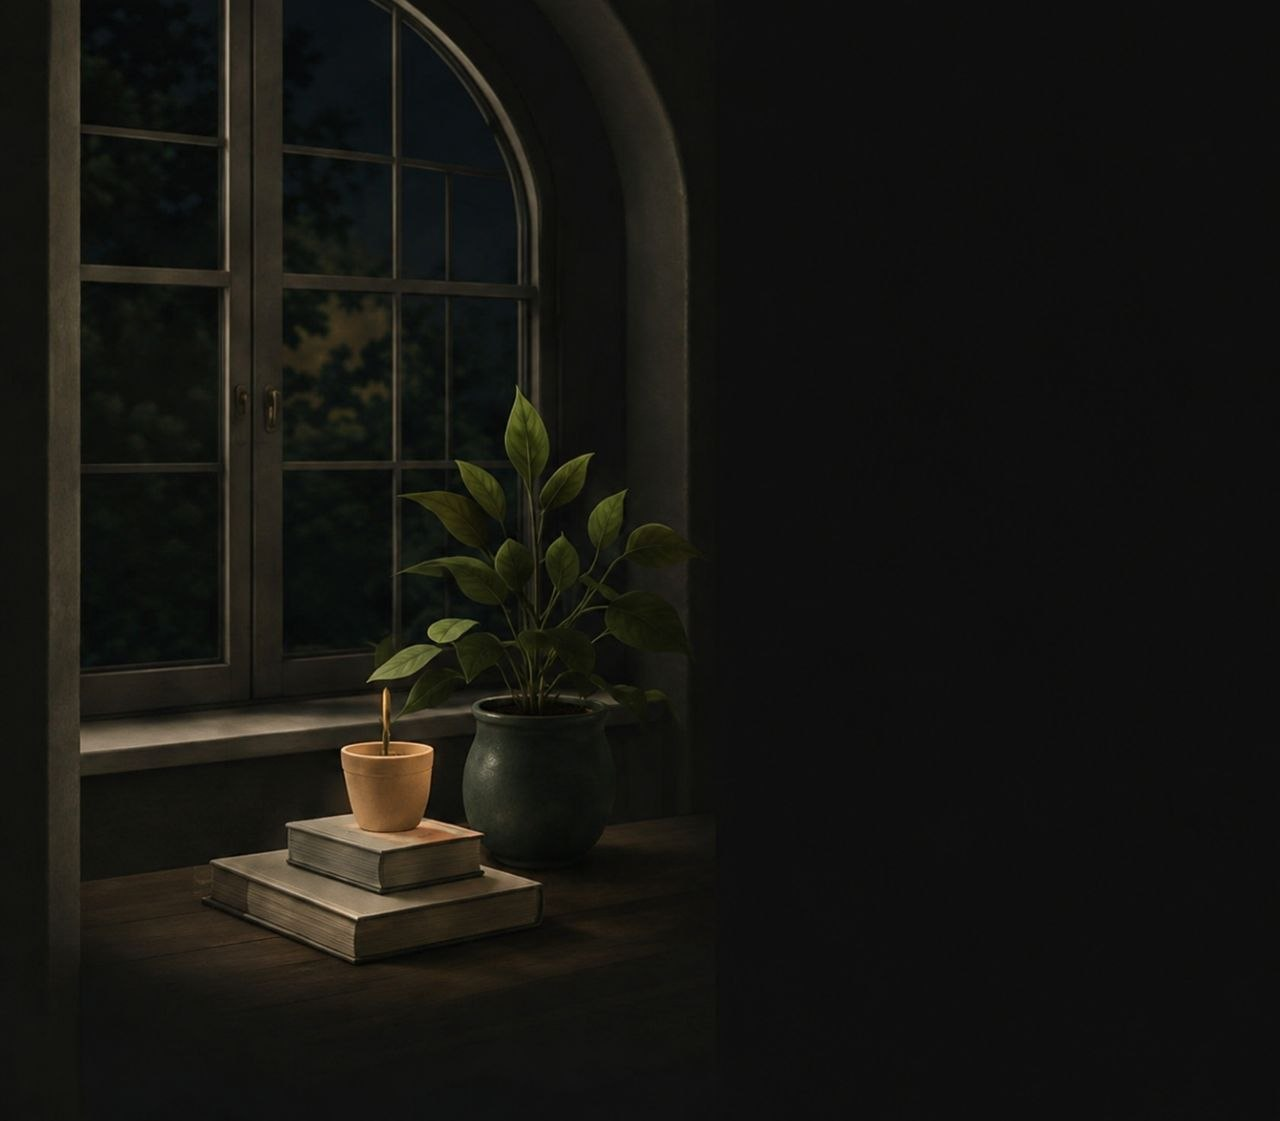
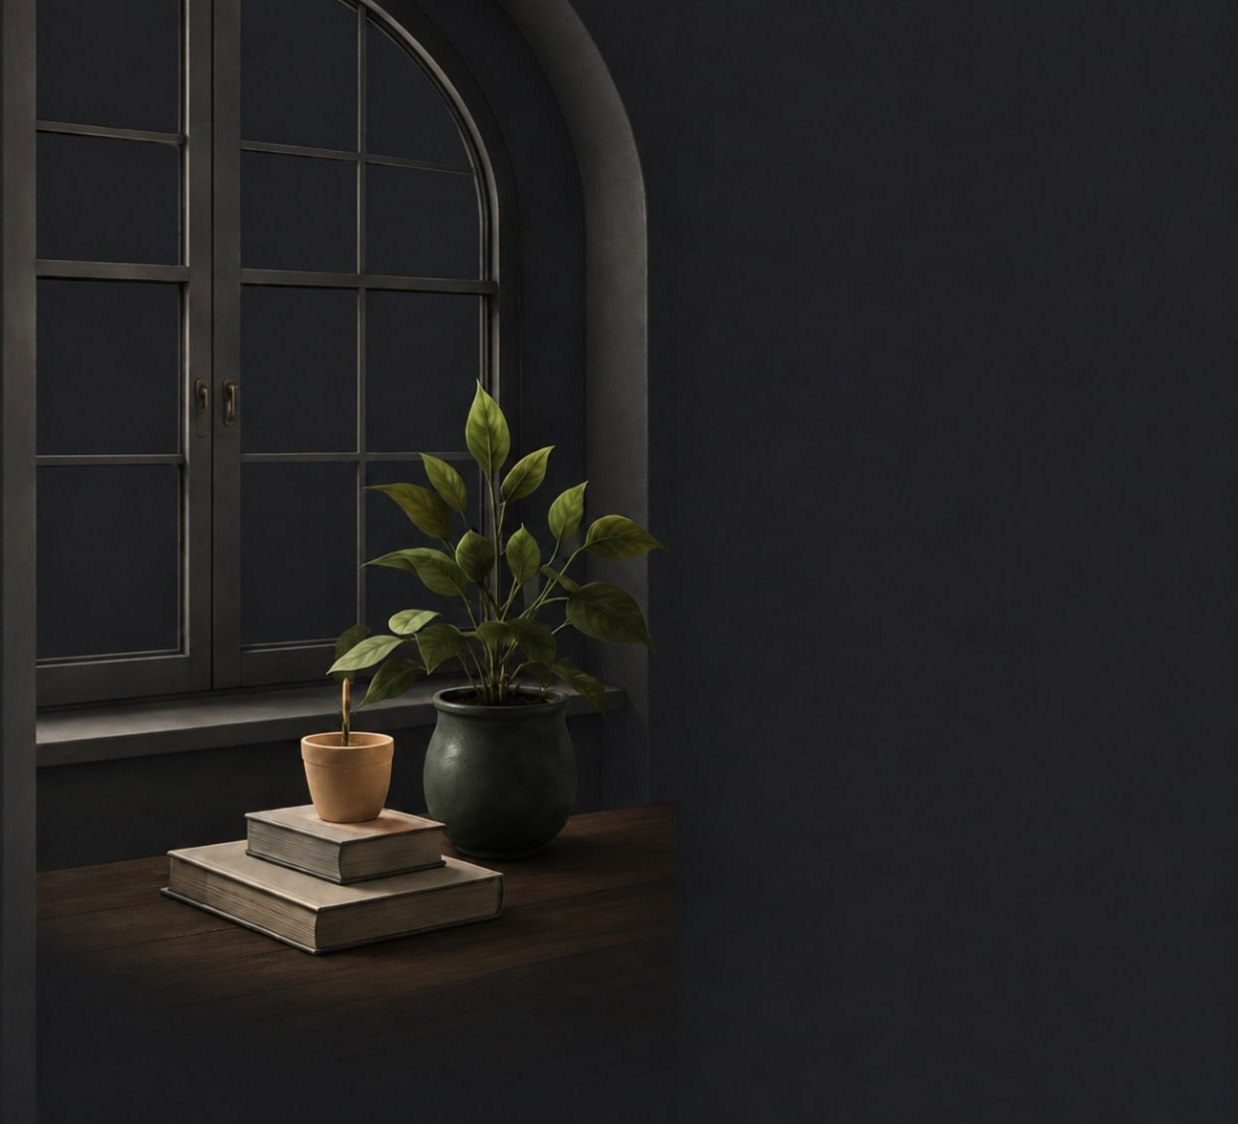
final-about page

diff --git a/about.html b/about.html
@@ -65,7 +65,7 @@
   <!--Start Landing Section-->
   <section class="landing d-flex justify-content-md-between align-items-center flex-lg-row container-fluid my-5">
 
-    <div class="info ms-lg-2 p-4">
+    <div class="info ms-lg-4 p-4">
       <div class="ms-lg-5 text-center text-md-start">
 
         <p class="fst-italic fs-5 text-green fw-semibold">About Malath <span class="heart">♡</span></p>
@@ -82,7 +82,7 @@
 
 
     <div class="landing-image w-50 my-md-auto bg-dark">
-      <img src="./assets/landing-light.jpg" alt="Landing" class="w-100" id="landing-img">
+      <img src="./assets/landing-light.png" alt="Landing" class="w-100" id="landing-img"/>
     </div>
   </section>
   <!--End Landing Section-->
@@ -154,12 +154,12 @@
   <!--End Story Section-->
 
   <!--Start Mission Section -->
-  <section class="mission container-fluid my-5">
+  <section class="container-fluid my-5">
     <div class="row column-gap-5">
 
-      <div class="col-lg-6 border border-1 rounded-5 ms-lg-3">
+      <div id="mission" class="col-lg-6 border border-1 rounded-5 ms-lg-3">
 
-        <div id="description" class=" pt-5">
+        <div id="description" class="pt-4">
           <h3 class="mb-3">Our Mission</h3>
           <p class="lh-lg text-muted paragraph">To make knowledge accessible to everyone <br> by encouraging book sharing and borrowing <br> in a simple,secure,and meaningful way.</p>
           <p class="lh-lg text-muted paragraph">We aim to reduce book waste,spread <br>learning opportunities, and support a more<br> conscious and connected society.</p>
@@ -168,7 +168,7 @@
 
 
 
-      <div class="we-do col-lg-5 pt-5 border border-1 rounded-5 ps-md-4">
+      <div class="we-do col-lg-5 pt-4 border border-1 rounded-5 ps-md-4">
         <h3>What We Do</h3>
         <div class="info my-4">
 
@@ -316,14 +316,14 @@
 
   <!--Start Last Section-->
   <section class="mb-5 container-fluid my-5">
-    <div class="row p-2 justify-content-around">
+    <div class="row p-2 justify-content-around align-items-center">
 
       <div class="col-md-4 col-lg-4 text-center mb-3">
-        <q class="fs-1 fw-semibold fst-italic">A book is a gift <br class="d-none d-md-block">you can open again <br class="d-none d-lg-block"> and again.</q>
+        <q class="fs-1 fw-semibold fst-italic">A book is a gift <br class="d-none d-lg-block">you can open again <br class="d-none d-lg-block"> and again.</q>
       </div>
 
       <div class="col-md-5 col-lg-5">
-        <img src="./assets/quote.jpg" alt="" class="w-100" id="last-section">
+        <img src="./assets/chair-light.jpg" alt="" class="w-100" id="last-section">
       </div>
 
       <div class="col-md-3 col-lg-3 text-center text-md-start mt-3">
@@ -337,7 +337,7 @@
   <!--End Last Section-->
 
   <!--Start Footer-->
-  <footer id="footer" class="p-3 bg-section">
+  <footer id="footer" class="px-1 py-3 bg-section">
     <div class="container">
       <div class="row  justify-content-md-between justify-content-lg-center align-items-start p-2">
 

diff --git a/css/style.css b/css/style.css
@@ -56,22 +56,15 @@ html {
 .bg-section {
   background-color: #e6ede6;
 }
+.bg-green{
+  background-color: var(--primary-green-color);
+}
 .copy-right {
   background-color: var(--primary-green-color) !important;
 }
 /*End Footer*/
 
 /*Start About Page*/
-.landing-image{
-  border-radius: 8px;
-  -webkit-border-radius: 8px;
-  -moz-border-radius: 8px;
-  -ms-border-radius: 8px;
-  -o-border-radius: 8px;
-}
-#landing-img{
-  mix-blend-mode: screen; 
-}
 .icon {
   width: 40px;
   height: 40px;
@@ -101,78 +94,50 @@ html {
   -o-border-radius: 50%;
 }
 #description {
+  padding-left: 300px;
+}
+#mission{
+  overflow: hidden;
   background-image: url(../assets/mission-light.jpg);
   background-size: cover;
-  padding-bottom: 100px;
-  border-radius: 8px;
-  -webkit-border-radius: 8px;
-  -moz-border-radius: 8px;
-  -ms-border-radius: 8px;
-  -o-border-radius: 8px;
-  padding-left: 300px;
   background-position: center;
-}
-/*#landing-img{
-  mix-blend-mode: screen;
-}*/
-/*.description{
-  background-image: url(../assets/mission-dark.jpg);
-  background-size: cover;
-  padding-bottom: 100px;
   border-radius: 8px;
   -webkit-border-radius: 8px;
   -moz-border-radius: 8px;
   -ms-border-radius: 8px;
   -o-border-radius: 8px;
-  padding-left: 300px;
-}*/
-.description-box,
-.description-content {
-  min-height: 100%;
 }
 @media (max-width: 767px) {
   .landing {
     flex-direction: column !important;
   }
-  .landing .image,
-  .landing .image img {
+  .landing-image,
+  .landing-image img {
     width: 100% !important;
   }
-  .mission .description {
-    padding-left: 300px;
-    padding-bottom: 10px;
+   #mission{
+    background-image: url(../assets/mission-mobile.jpg);
     background-attachment: fixed;
+    margin-bottom: 15px;  
+   }
+   #description {
+    padding-left: 25px;
+   
   }
 }
 @media (min-width: 768px){
-  .mission .description{
+  #description{
     padding-left: 400px;
   }
 
 }
-/*@media (max-width: 991px){
-  .landing .break{
-    display: none !important;
+@media (min-width: 992px){
+  #description{
+    padding-left: 360px;
   }
-}*/
-/*.mission{
-  background-image: url(../assets/mission-background.jpg);
-  background-size: cover;
-}*/
-/*.vision{
-  background-image: url(../assets/vision-background.jpg);
-  background-size: cover;
-}*/
-/*.icons{
-    width: 40px;
-    height: 40px;
-    border-radius: 50%;
-    -webkit-border-radius: 50%;
-    -moz-border-radius: 50%;
-    -ms-border-radius: 50%;
-    -o-border-radius: 50%;
-    background-color: var(--background-section);
-}*/
+}
+
+
 /*End About Page*/
 
 /* Custom Styles overriding or adding to Bootstrap */

diff --git a/js/main.js b/js/main.js
@@ -42,7 +42,7 @@ let mode = document.querySelector("#themeBtn");
 let navbar = document.querySelector("#navbar");
 let paragraph = document.querySelectorAll(".paragraph");
 let landingImg = document.querySelector("#landing-img");
-let backgroundImg = document.querySelector("#description");
+let backgroundImg = document.querySelector("#mission");
 let stats = document.querySelector("#stats");
 let stat = document.querySelectorAll(".stat");
 let image = document.querySelector("#last-section");
@@ -63,15 +63,15 @@ mode.addEventListener("click" , function(){
     footer.classList.toggle("bg-dark");
 
     stats.classList.toggle("bg-section");
-    stats.classList.toggle("bg-success");
+    stats.classList.toggle("bg-green");
 
     if(document.body.classList.contains("bg-dark")){
         // dark
         mode.classList.remove("bi-moon");
         mode.classList.add("bi-sun");
-        landingImg.src = "./assets/landing-dark.jpg";
+        landingImg.src = "./assets/landing-dark.png";
         backgroundImg.style.backgroundImage = "url('../assets/mission-dark.jpg')";
-        image.src = "./assets/last-section.jpg";
+        image.src = "./assets/chair-dark.jpg";
 
         paragraph.forEach(function(p) {
             p.classList.remove("text-muted");
@@ -86,9 +86,9 @@ mode.addEventListener("click" , function(){
     else{
         mode.classList.remove("bi-sun");
         mode.classList.add("bi-moon");
-        landingImg.src = "./assets/landing-light.jpg";
+        landingImg.src = "./assets/landing-light.png";
         backgroundImg.style.backgroundImage = "url('../assets/mission-light.jpg')";
-        image.src = "./assets/quote.jpg";
+        image.src = "./assets/chair-light.jpg";
 
         paragraph.forEach(function(p) {
             p.classList.remove("text-white");
